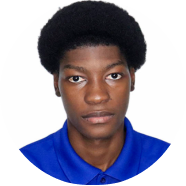
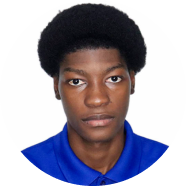
Dark/Light mode theme function

diff --git a/src/components/CustomSVG.jsx b/src/components/CustomSVG.jsx
@@ -1,0 +1,49 @@
+import React from 'react'
+
+function CustomSVG() {
+
+    return (
+        <svg width="240" height="240" viewBox="0 0 240 240" fill="none" xmlns="http://www.w3.org/2000/svg">
+            <path d="M136.091 8.52955L134.698 8.31928C134.676 7.90606 134.585 7.53221 134.425 7.19772C134.268 6.8638 134.059 6.57178 133.798 6.32168C133.541 6.0684 133.245 5.86275 132.908 5.70474C132.572 5.54673 132.213 5.4389 131.831 5.38124C131.134 5.27611 130.477 5.35691 129.858 5.62365C129.243 5.89096 128.717 6.34219 128.281 6.97734C127.848 7.61306 127.557 8.42909 127.407 9.42544C127.257 10.4218 127.295 11.2876 127.521 12.0228C127.752 12.7585 128.121 13.3449 128.63 13.7817C129.142 14.2192 129.747 14.4905 130.444 14.5956C130.826 14.6533 131.201 14.6562 131.569 14.6045C131.936 14.5527 132.28 14.4456 132.599 14.2831C132.923 14.1174 133.209 13.8982 133.457 13.6253C133.709 13.3492 133.906 13.0189 134.049 12.6343L135.442 12.8446C135.248 13.4168 134.978 13.9143 134.631 14.3369C134.284 14.7595 133.88 15.1027 133.419 15.3664C132.958 15.6263 132.459 15.8019 131.92 15.893C131.386 15.9847 130.828 15.9867 130.247 15.8991C129.266 15.751 128.43 15.3796 127.738 14.7848C127.046 14.1901 126.547 13.4176 126.242 12.4675C125.937 11.5174 125.876 10.4356 126.058 9.22196C126.241 8.00836 126.618 6.99264 127.189 6.17479C127.761 5.35694 128.464 4.76595 129.301 4.40181C130.137 4.03768 131.046 3.92966 132.027 4.07775C132.608 4.16536 133.14 4.33188 133.624 4.57731C134.112 4.8233 134.537 5.14033 134.9 5.52838C135.263 5.91268 135.549 6.35798 135.756 6.86427C135.964 7.36682 136.076 7.92191 136.091 8.52955Z" fill="black"/>
+            <path d="M152.296 14.3953C151.934 15.5682 151.41 16.5164 150.724 17.24C150.037 17.9635 149.253 18.4429 148.372 18.6783C147.491 18.9136 146.576 18.8848 145.628 18.592C144.68 18.2991 143.908 17.807 143.313 17.1156C142.717 16.4242 142.339 15.586 142.179 14.6009C142.019 13.6158 142.119 12.5368 142.48 11.364C142.842 10.1911 143.366 9.24287 144.052 8.51934C144.739 7.7958 145.523 7.31636 146.404 7.08103C147.285 6.84569 148.2 6.87445 149.148 7.16731C150.096 7.46016 150.868 7.95228 151.464 8.64367C152.059 9.33505 152.437 10.1733 152.597 11.1584C152.758 12.1435 152.657 13.2225 152.296 14.3953ZM150.993 13.9929C151.289 13.03 151.379 12.1676 151.261 11.4057C151.146 10.6448 150.868 10.0099 150.427 9.50084C149.989 8.99289 149.433 8.63497 148.76 8.42706C148.087 8.21916 147.424 8.20096 146.773 8.37245C146.125 8.54506 145.538 8.91286 145.012 9.47584C144.49 10.0399 144.08 10.8034 143.783 11.7664C143.487 12.7293 143.396 13.5911 143.51 14.352C143.628 15.1139 143.906 15.7488 144.344 16.2568C144.786 16.7658 145.343 17.1243 146.016 17.3322C146.69 17.5401 147.35 17.5578 147.998 17.3852C148.649 17.2137 149.236 16.8459 149.759 16.2818C150.285 15.7188 150.696 14.9559 150.993 13.9929Z" fill="black"/>
+            <path d="M161.331 10.8873L162.846 11.6178L162.222 22.0399L162.344 22.0991L170.093 15.1121L171.608 15.8425L166.564 26.329L165.377 25.7565L169.209 17.7892L169.107 17.7399L161.999 24.1278L160.853 23.575L161.409 14.0284L161.307 13.979L157.475 21.9463L156.288 21.3738L161.331 10.8873Z" fill="black"/>
+            <path d="M170.562 27.8922L177.111 18.274L180.359 20.4907C181.113 21.0054 181.636 21.5623 181.929 22.1615C182.228 22.7596 182.336 23.3678 182.254 23.9861C182.172 24.6044 181.938 25.1969 181.553 25.7636C181.167 26.3303 180.7 26.7663 180.153 27.0716C179.609 27.3791 179.004 27.5072 178.338 27.456C177.674 27.4017 176.968 27.1193 176.22 26.6089L173.893 25.02L174.596 23.9868L176.886 25.55C177.402 25.9024 177.878 26.0961 178.312 26.1312C178.746 26.1663 179.137 26.0801 179.485 25.8725C179.838 25.6639 180.145 25.367 180.408 24.9819C180.67 24.5968 180.832 24.2033 180.895 23.8014C180.961 23.4016 180.895 23.0077 180.696 22.6198C180.5 22.2288 180.14 21.855 179.618 21.4983L177.572 20.1016L171.726 28.6866L170.562 27.8922Z" fill="black"/>
+            <path d="M197.21 33.1307L198.242 34.0897L193.006 39.7408C192.465 40.3243 191.845 40.7176 191.145 40.9208C190.451 41.1238 189.733 41.1265 188.992 40.9289C188.253 40.7286 187.549 40.3178 186.88 39.6965C186.212 39.0751 185.75 38.4031 185.495 37.6805C185.243 36.9551 185.191 36.2369 185.338 35.526C185.491 34.815 185.838 34.1677 186.379 33.5842L191.615 27.9332L192.648 28.8922L187.488 34.46C187.102 34.8767 186.85 35.3327 186.732 35.8279C186.616 36.3204 186.641 36.8169 186.808 37.3176C186.979 37.8181 187.302 38.2887 187.776 38.7296C188.251 39.1705 188.744 39.4578 189.255 39.5915C189.769 39.7225 190.265 39.7106 190.745 39.5559C191.229 39.401 191.664 39.1152 192.05 38.6984L197.21 33.1307Z" fill="black"/>
+            <path d="M203.146 39.9309L204.123 39.151L209.56 45.9775L208.584 46.7575L206.304 43.8953L198.188 50.376L197.31 49.2738L205.426 42.7931L203.146 39.9309Z" fill="black"/>
+            <path d="M205.462 58.9825L215.536 53.1588L219.044 59.2426L217.962 59.8682L215.158 55.0051L211.754 56.9729L214.376 61.5209L213.294 62.1465L210.671 57.5984L207.248 59.5776L210.097 64.5194L209.015 65.145L205.462 58.9825Z" fill="black"/>
+            <path d="M213.588 72.4179L224.418 68.1621L225.853 71.8227C226.185 72.6691 226.313 73.4207 226.236 74.0774C226.164 74.7327 225.928 75.2892 225.53 75.7469C225.132 76.2046 224.613 76.5588 223.975 76.8095C223.337 77.0603 222.72 77.1522 222.124 77.0851C221.528 77.0181 220.984 76.7702 220.49 76.3415C220 75.9114 219.591 75.2766 219.262 74.4373L218.1 71.4749L219.285 71.0094L220.43 73.9295C220.656 74.5079 220.923 74.9401 221.231 75.2263C221.54 75.516 221.88 75.6792 222.253 75.716C222.63 75.7549 223.036 75.6892 223.469 75.5188C223.903 75.3484 224.25 75.1184 224.511 74.8287C224.772 74.539 224.92 74.1814 224.957 73.756C224.997 73.3291 224.903 72.823 224.673 72.2376L223.769 69.9312L214.102 73.7298L213.588 72.4179ZM220.452 75.6056L216.632 80.1835L216.035 78.66L219.871 74.1244L220.452 75.6056Z" fill="black"/>
+            <path d="M232.613 107.845C233.182 107.733 233.607 107.424 233.888 106.917C234.169 106.41 234.284 105.805 234.231 105.102C234.193 104.588 234.076 104.145 233.881 103.772C233.686 103.403 233.435 103.122 233.128 102.929C232.822 102.739 232.483 102.658 232.113 102.686C231.803 102.709 231.543 102.803 231.331 102.967C231.123 103.134 230.954 103.341 230.824 103.586C230.698 103.831 230.598 104.085 230.523 104.349C230.451 104.613 230.395 104.854 230.355 105.074L230.126 106.276C230.069 106.584 229.984 106.929 229.872 107.309C229.761 107.694 229.597 108.065 229.38 108.423C229.168 108.785 228.883 109.091 228.526 109.342C228.169 109.593 227.718 109.739 227.174 109.78C226.547 109.827 225.968 109.705 225.438 109.414C224.907 109.127 224.469 108.682 224.124 108.077C223.779 107.476 223.573 106.73 223.506 105.838C223.444 105.007 223.524 104.278 223.747 103.65C223.97 103.025 224.308 102.521 224.762 102.138C225.216 101.758 225.758 101.522 226.39 101.429L226.498 102.879C226.063 102.95 225.711 103.124 225.443 103.403C225.18 103.685 224.993 104.029 224.883 104.436C224.777 104.847 224.741 105.282 224.775 105.743C224.816 106.28 224.938 106.755 225.144 107.169C225.354 107.582 225.624 107.902 225.957 108.127C226.293 108.353 226.672 108.45 227.095 108.418C227.48 108.389 227.786 108.258 228.011 108.025C228.237 107.791 228.412 107.493 228.537 107.13C228.662 106.768 228.766 106.378 228.848 105.962L229.15 104.503C229.342 103.577 229.661 102.832 230.105 102.267C230.549 101.701 231.161 101.39 231.943 101.331C232.593 101.282 233.173 101.415 233.683 101.73C234.196 102.049 234.61 102.496 234.923 103.073C235.239 103.653 235.426 104.314 235.481 105.054C235.537 105.802 235.453 106.477 235.228 107.079C235.007 107.68 234.679 108.168 234.244 108.543C233.809 108.921 233.299 109.142 232.715 109.204L232.613 107.845Z" fill="black"/>
+            <path d="M232.216 127.722L232.321 126.317C232.731 126.265 233.097 126.146 233.419 125.961C233.74 125.78 234.015 125.55 234.245 125.271C234.478 124.996 234.661 124.685 234.794 124.338C234.926 123.991 235.007 123.624 235.035 123.239C235.088 122.536 234.958 121.887 234.646 121.29C234.333 120.696 233.844 120.206 233.178 119.818C232.511 119.433 231.676 119.204 230.671 119.128C229.666 119.053 228.806 119.155 228.09 119.436C227.373 119.72 226.816 120.132 226.419 120.672C226.021 121.216 225.796 121.839 225.743 122.542C225.714 122.927 225.74 123.301 225.819 123.664C225.898 124.027 226.031 124.362 226.217 124.668C226.406 124.979 226.646 125.248 226.937 125.475C227.231 125.706 227.575 125.878 227.969 125.991L227.864 127.396C227.279 127.246 226.763 127.013 226.315 126.699C225.868 126.384 225.495 126.006 225.198 125.566C224.904 125.126 224.692 124.641 224.56 124.111C224.429 123.585 224.385 123.029 224.429 122.443C224.503 121.454 224.81 120.592 225.352 119.857C225.893 119.123 226.626 118.568 227.55 118.193C228.475 117.818 229.549 117.677 230.773 117.768C231.997 117.86 233.038 118.161 233.896 118.669C234.754 119.178 235.396 119.836 235.822 120.643C236.248 121.45 236.424 122.348 236.35 123.338C236.306 123.923 236.18 124.466 235.971 124.967C235.763 125.472 235.479 125.92 235.119 126.311C234.763 126.702 234.34 127.02 233.851 127.264C233.365 127.509 232.82 127.661 232.216 127.722Z" fill="black"/>
+            <path d="M235.126 140.437L223.782 137.845L224.095 136.471L235.439 139.063L235.126 140.437Z" fill="black"/>
+            <path d="M220.929 148.855L231.759 153.111L229.196 159.649L228.032 159.192L230.081 153.966L226.422 152.528L224.506 157.416L223.342 156.958L225.258 152.07L221.578 150.624L219.496 155.935L218.332 155.478L220.929 148.855Z" fill="black"/>
+            <path d="M220.973 177.413L210.899 171.589L211.58 170.408L222.657 169.487L222.714 169.389L214.804 164.816L215.508 163.595L225.582 169.419L224.901 170.6L213.793 171.529L213.736 171.628L221.665 176.212L220.973 177.413Z" fill="black"/>
+            <path d="M208.371 189.679L209.249 188.577C209.618 188.764 209.987 188.872 210.357 188.901C210.724 188.932 211.081 188.897 211.428 188.796C211.775 188.701 212.101 188.547 212.406 188.334C212.711 188.122 212.983 187.865 213.224 187.562C213.663 187.011 213.922 186.401 214 185.731C214.075 185.065 213.947 184.383 213.616 183.687C213.282 182.994 212.721 182.333 211.934 181.704C211.146 181.075 210.378 180.675 209.629 180.503C208.877 180.335 208.185 180.361 207.553 180.584C206.918 180.809 206.381 181.197 205.942 181.748C205.702 182.05 205.512 182.374 205.373 182.718C205.234 183.063 205.155 183.415 205.136 183.773C205.118 184.136 205.165 184.494 205.277 184.845C205.39 185.202 205.577 185.538 205.839 185.854L204.961 186.956C204.563 186.502 204.267 186.019 204.075 185.506C203.882 184.994 203.787 184.472 203.789 183.941C203.794 183.411 203.892 182.891 204.082 182.378C204.27 181.869 204.546 181.385 204.912 180.926C205.531 180.149 206.27 179.61 207.13 179.308C207.99 179.006 208.908 178.961 209.883 179.172C210.857 179.383 211.824 179.872 212.783 180.638C213.742 181.403 214.433 182.238 214.856 183.143C215.278 184.047 215.438 184.953 215.335 185.86C215.233 186.767 214.872 187.609 214.254 188.385C213.888 188.844 213.478 189.222 213.024 189.519C212.568 189.818 212.081 190.028 211.564 190.148C211.05 190.271 210.522 190.295 209.98 190.222C209.441 190.15 208.905 189.969 208.371 189.679Z" fill="black"/>
+            <path d="M198.434 189.849L206.343 198.384L201.198 203.164L200.349 202.247L204.461 198.426L201.789 195.543L197.943 199.116L197.093 198.199L200.939 194.626L198.251 191.725L194.072 195.608L193.222 194.691L198.434 189.849Z" fill="black"/>
+            <path d="M173.958 210.106L175.289 209.464L176.484 221.806L175.174 222.438L166.282 213.807L167.612 213.166L174.99 220.483L175.072 220.444L173.958 210.106ZM175.437 214.439L170.074 217.025L169.532 215.899L174.896 213.312L175.437 214.439Z" fill="black"/>
+            <path d="M155.009 230.856L151.583 219.735L152.886 219.333L161.634 226.193L161.743 226.16L159.053 217.428L160.399 217.013L163.825 228.133L162.522 228.536L153.745 221.66L153.637 221.694L156.333 230.447L155.009 230.856Z" fill="black"/>
+            <path d="M141.956 222.495L145.507 221.959L147.239 233.466L143.531 234.025C142.415 234.194 141.425 234.107 140.562 233.767C139.699 233.429 138.992 232.864 138.439 232.07C137.887 231.28 137.522 230.289 137.342 229.098C137.162 227.9 137.22 226.835 137.517 225.906C137.814 224.98 138.336 224.223 139.083 223.635C139.83 223.051 140.788 222.671 141.956 222.495ZM144.3 223.405L142.232 223.717C141.281 223.861 140.52 224.163 139.95 224.625C139.38 225.086 138.992 225.679 138.787 226.404C138.582 227.128 138.55 227.958 138.691 228.895C138.831 229.824 139.103 230.6 139.507 231.225C139.912 231.854 140.443 232.302 141.1 232.571C141.758 232.843 142.536 232.911 143.435 232.776L145.66 232.44L144.3 223.405Z" fill="black"/>
+            <path d="M106.767 232.637C106.748 233.217 106.955 233.7 107.387 234.087C107.819 234.474 108.384 234.72 109.08 234.825C109.59 234.902 110.048 234.887 110.455 234.78C110.858 234.672 111.188 234.49 111.445 234.234C111.698 233.977 111.852 233.665 111.907 233.298C111.954 232.991 111.92 232.716 111.808 232.473C111.69 232.233 111.527 232.023 111.317 231.841C111.106 231.664 110.88 231.509 110.64 231.377C110.398 231.249 110.175 231.141 109.97 231.052L108.849 230.561C108.561 230.437 108.244 230.278 107.898 230.084C107.548 229.89 107.223 229.647 106.922 229.357C106.616 229.069 106.381 228.723 106.216 228.319C106.051 227.915 106.009 227.443 106.09 226.904C106.184 226.282 106.431 225.745 106.832 225.292C107.23 224.839 107.762 224.511 108.428 224.309C109.091 224.106 109.864 224.072 110.748 224.205C111.572 224.33 112.266 224.57 112.829 224.927C113.388 225.284 113.804 225.726 114.077 226.253C114.346 226.78 114.456 227.362 114.406 227.998L112.968 227.781C112.996 227.341 112.904 226.959 112.692 226.636C112.476 226.316 112.182 226.057 111.809 225.859C111.432 225.665 111.016 225.533 110.559 225.464C110.027 225.383 109.536 225.398 109.087 225.506C108.637 225.618 108.266 225.811 107.972 226.085C107.677 226.362 107.498 226.71 107.435 227.13C107.377 227.512 107.437 227.839 107.615 228.111C107.792 228.383 108.044 228.62 108.37 228.822C108.695 229.025 109.052 229.213 109.44 229.386L110.794 230.004C111.654 230.398 112.311 230.875 112.763 231.433C113.215 231.992 113.383 232.659 113.266 233.434C113.169 234.078 112.91 234.614 112.49 235.041C112.065 235.471 111.537 235.774 110.905 235.951C110.269 236.131 109.584 236.165 108.849 236.055C108.108 235.943 107.469 235.71 106.932 235.357C106.395 235.008 105.992 234.579 105.723 234.072C105.451 233.563 105.35 233.017 105.418 232.434L106.767 232.637Z" fill="black"/>
+            <path d="M87.7043 225.605C88.0656 224.432 88.5896 223.484 89.2762 222.76C89.9629 222.036 90.7467 221.557 91.6278 221.322C92.5089 221.086 93.4235 221.115 94.3717 221.408C95.32 221.701 96.0919 222.193 96.6874 222.884C97.283 223.576 97.6609 224.414 97.8212 225.399C97.9814 226.384 97.8809 227.463 97.5195 228.636C97.1582 229.809 96.6342 230.757 95.9476 231.481C95.2609 232.204 94.4771 232.684 93.596 232.919C92.715 233.154 91.8003 233.125 90.8521 232.833C89.9038 232.54 89.1319 232.048 88.5364 231.356C87.9408 230.665 87.5629 229.827 87.4026 228.842C87.2424 227.856 87.3429 226.777 87.7043 225.605ZM89.0072 226.007C88.7105 226.97 88.6212 227.832 88.7392 228.594C88.8536 229.355 89.1317 229.99 89.5733 230.499C90.0114 231.007 90.567 231.365 91.2402 231.573C91.9133 231.781 92.5756 231.799 93.2269 231.627C93.8746 231.455 94.4616 231.087 94.9878 230.524C95.5104 229.96 95.92 229.197 96.2166 228.234C96.5133 227.271 96.6044 226.409 96.49 225.648C96.372 224.886 96.0939 224.251 95.6559 223.743C95.2142 223.234 94.6568 222.876 93.9836 222.668C93.3105 222.46 92.65 222.442 92.0023 222.615C91.351 222.786 90.764 223.154 90.2415 223.718C89.7153 224.281 89.3038 225.044 89.0072 226.007Z" fill="black"/>
+            <path d="M83.7124 218.626L78.6687 229.112L72.3839 226.082L72.9257 224.956L77.9412 227.374L79.6455 223.831L75.1007 221.639L75.6425 220.513L80.1873 222.704L82.4432 218.014L83.7124 218.626Z" fill="black"/>
+            <path d="M64.1178 221.052L63.4143 222.085L56.2063 217.165L56.9099 216.131L59.932 218.194L65.7778 209.609L66.9416 210.404L61.0958 218.989L64.1178 221.052Z" fill="black"/>
+            <path d="M54.7455 202.093L49.1671 212.794L48.1181 211.819L52.7784 203.213L52.6951 203.135L44.4383 208.401L43.2728 207.318L47.8997 198.68L47.8165 198.603L39.593 203.899L38.544 202.925L48.7845 196.555L49.8502 197.545L45.4289 206.095L45.4955 206.157L53.6798 201.103L54.7455 202.093Z" fill="black"/>
+            <path d="M44.2762 192.717L45.1965 193.873L33.4413 197.791L32.5351 196.654L38.9664 186.051L39.8868 187.206L34.3985 196.038L34.4551 196.109L44.2762 192.717ZM40.3843 195.127L36.6745 190.469L37.6513 189.689L41.3611 194.347L40.3843 195.127Z" fill="black"/>
+            <path d="M34.5382 181.018L24.464 186.841L22.4999 183.435C22.0458 182.648 21.8075 181.923 21.785 181.263C21.7592 180.604 21.9092 180.018 22.2348 179.506C22.5605 178.994 23.0201 178.567 23.6137 178.223C24.2072 177.88 24.8036 177.698 25.4027 177.675C26.0019 177.652 26.5773 177.816 27.1292 178.167C27.6778 178.519 28.1772 179.086 28.6276 179.867L30.217 182.623L29.1151 183.26L27.5484 180.543C27.2381 180.005 26.9096 179.617 26.563 179.38C26.2145 179.14 25.8533 179.029 25.4796 179.048C25.1007 179.066 24.7096 179.191 24.3062 179.424C23.9028 179.658 23.5938 179.937 23.3792 180.262C23.1645 180.588 23.0707 180.963 23.0979 181.39C23.1217 181.818 23.2907 182.304 23.6048 182.849L24.8423 184.995L33.8344 179.797L34.5382 181.018ZM27.2766 178.889L30.3717 173.792L31.1891 175.209L28.0713 180.267L27.2766 178.889Z" fill="black"/>
+            <path d="M26.4121 167.582L15.5819 171.838L13.019 165.3L14.1824 164.842L16.2311 170.069L19.8905 168.631L17.9745 163.743L19.1379 163.286L21.0539 168.174L24.7345 166.727L22.6526 161.416L23.816 160.959L26.4121 167.582Z" fill="black"/>
+            <path d="M16.2967 134.267L16.5647 137.848L4.96095 138.719L4.68106 134.979C4.59681 133.854 4.75702 132.873 5.16168 132.038C5.56257 131.202 6.17954 130.539 7.01259 130.047C7.84185 129.555 8.85707 129.265 10.0582 129.175C11.267 129.084 12.3237 129.221 13.2285 129.586C14.1295 129.952 14.845 130.528 15.375 131.317C15.9012 132.105 16.2085 133.089 16.2967 134.267ZM15.213 136.537L15.057 134.452C14.9852 133.492 14.7406 132.711 14.3232 132.108C13.9058 131.505 13.3437 131.074 12.6368 130.816C11.9299 130.557 11.1043 130.463 10.16 130.534C9.22326 130.605 8.42827 130.818 7.77504 131.175C7.11803 131.532 6.63098 132.028 6.31388 132.663C5.993 133.299 5.86649 134.07 5.93434 134.977L6.10227 137.22L15.213 136.537Z" fill="black"/>
+            <path d="M15.0631 122.214L3.45938 121.343L3.98354 114.34L5.23003 114.433L4.81105 120.031L8.73184 120.326L9.12369 115.09L10.3702 115.184L9.97834 120.419L13.9218 120.715L14.3476 115.026L15.5941 115.12L15.0631 122.214Z" fill="black"/>
+            <path d="M4.66711 103.471L14.9842 102.285L15.0145 102.152L6.23302 96.602L6.56135 95.1617L16.9556 101.92L16.6323 103.338L4.33877 104.912L4.66711 103.471Z" fill="black"/>
+            <path d="M19.0714 91.1449L8.24122 86.8891L10.8041 80.3508L11.9675 80.8079L9.91886 86.0344L13.5783 87.4724L15.4943 82.5845L16.6577 83.0417L14.7417 87.9296L18.4222 89.3759L20.5041 84.0648L21.6675 84.522L19.0714 91.1449Z" fill="black"/>
+            <path d="M24.4922 76.4046L14.4179 70.581L15.1218 69.3603L24.1139 74.5583L26.8159 69.8725L27.8981 70.498L24.4922 76.4046Z" fill="black"/>
+            <path d="M33.6168 51.327C34.5758 52.0928 35.2666 52.9279 35.689 53.8324C36.1115 54.7368 36.2715 55.6425 36.1689 56.5495C36.0664 57.4565 35.706 58.2981 35.0877 59.0744C34.4694 59.8506 33.7301 60.3897 32.8698 60.6917C32.0095 60.9936 31.092 61.0389 30.1173 60.8278C29.1426 60.6167 28.1758 60.1282 27.2167 59.3625C26.2576 58.5967 25.5669 57.7616 25.1444 56.8571C24.722 55.9527 24.562 55.047 24.6645 54.14C24.7671 53.2331 25.1275 52.3914 25.7458 51.6152C26.3641 50.8389 27.1034 50.2998 27.9637 49.9979C28.824 49.696 29.7415 49.6506 30.7162 49.8617C31.6908 50.0728 32.6577 50.5613 33.6168 51.327ZM32.7672 52.3937C31.9798 51.765 31.2103 51.3663 30.4586 51.1974C29.7092 51.0256 29.0172 51.0524 28.3826 51.2776C27.7504 51.4999 27.2148 51.8866 26.7759 52.4377C26.3369 52.9888 26.0784 53.5991 26.0003 54.2687C25.9246 54.9353 26.0525 55.6167 26.3842 56.3129C26.7182 57.0062 27.2789 57.6671 28.0663 58.2958C28.8536 58.9245 29.622 59.3248 30.3714 59.4965C31.1231 59.6654 31.8151 59.6386 32.4473 59.4164C33.0819 59.1911 33.6186 58.803 34.0576 58.2519C34.4965 57.7008 34.7539 57.0919 34.8296 56.4253C34.9077 55.7557 34.7798 55.0743 34.4457 54.3811C34.1141 53.6848 33.5546 53.0224 32.7672 52.3937Z" fill="black"/>
+            <path d="M41.5661 50.1507L33.6566 41.6157L36.5372 38.9396C37.206 38.3183 37.8647 37.9313 38.5133 37.7785C39.1621 37.6204 39.7784 37.6502 40.3622 37.8678C40.9461 38.0855 41.471 38.4457 41.937 38.9486C42.403 39.4515 42.7239 40.0039 42.8996 40.6058C43.078 41.2052 43.0683 41.8244 42.8702 42.4634C42.6697 43.0995 42.2377 43.7257 41.5745 44.3419L39.5098 46.26L38.6601 45.3432L40.6915 43.456C41.1494 43.0306 41.4437 42.6098 41.5745 42.1936C41.7053 41.7774 41.7082 41.3766 41.5833 40.9911C41.4587 40.6002 41.238 40.2339 40.9213 39.8922C40.6046 39.5504 40.2576 39.3041 39.8802 39.1532C39.5056 38.9997 39.1073 38.9768 38.6854 39.0844C38.2609 39.1892 37.817 39.4569 37.3535 39.8874L35.5386 41.5735L42.5984 49.1916L41.5661 50.1507Z" fill="black"/>
+            <path d="M46.2889 29.6056L47.6779 28.6574L56.3806 34.4117L56.4932 34.3348L54.3228 24.1214L55.7118 23.1732L62.2613 32.7914L61.1725 33.5346L56.1965 26.227L56.1027 26.2911L58.0754 35.6488L57.0242 36.3664L49.0449 31.109L48.951 31.1731L53.927 38.4807L52.8383 39.2238L46.2889 29.6056Z" fill="black"/>
+            <path d="M65.6116 30.1014L60.5679 19.615L66.8937 16.5649L67.4355 17.6913L62.379 20.1295L64.0832 23.6727L68.8122 21.3925L69.354 22.519L64.625 24.7992L66.3391 28.363L71.4775 25.8854L72.0193 27.0118L65.6116 30.1014Z" fill="black"/>
+            <path d="M84.9912 9.14385L88.4172 20.2644L87.1142 20.6668L78.3658 13.8066L78.2572 13.8401L80.9471 22.5715L79.6008 22.9873L76.1748 11.8667L77.4777 11.4643L86.2546 18.3396L86.3632 18.3061L83.6666 9.55295L84.9912 9.14385Z" fill="black"/>
+            <path d="M92.3176 7.86538L92.1316 6.62931L100.761 5.32699L100.947 6.56306L97.3291 7.10909L98.8752 17.3797L97.4819 17.59L95.9357 7.31936L92.3176 7.86538Z" fill="black"/>
+        </svg>
+    )
+    
+}
+
+export default CustomSVG

diff --git a/src/styles/_navigation.scss b/src/styles/_navigation.scss
@@ -3,17 +3,25 @@
     justify-content: space-between;
     align-items: center;
     position: relative;
+
+    a:hover {
+        text-shadow:0 0 1px var(--foreground);
+    }
     
     &__menu--mobile {
         display: flex;
         flex-direction: column;
         position: absolute;
-        background-color: $light;
+        background-color: var(--background);
         top: 100%;
         padding: 8px;
         gap: 8px;
         width: 50%;
         line-height: 24px;
+
+        @include breakpoint(medium) {
+            display: none;
+        }
 
         li {
             display: flex;
@@ -24,10 +32,6 @@
             padding: 8px 0;
             text-align: center;
             border-radius: 8px;
-          }
-
-          a:hover {
-           font-weight: bold;
           }
         }
     }
@@ -43,11 +47,11 @@
     }
 
     &__toggle {
-        background-color: white;
+        background-color: var(--background);
         svg {
             width: 40px;
             height: 40px;
-            background-color: white;
+            background-color: var(--background);
         }
         @include breakpoint(medium) {
             display: none;
@@ -61,17 +65,10 @@
         line-height: 0;
         cursor: pointer;
         box-shadow: 0px 1px 4px 0px rgba(0, 0, 0, 0.25);
+        background-color: var(--mode);
     }
 
-    &__mode--light {
-        background-color: $sun;
-    }
-
-    &__mode--dark {
-        background-color: $moon;
-
-        svg * {
-            color: $light;
-        }
+    svg * {
+        color: var(--foreground);
     }
 }

diff --git a/src/components/Contact.jsx b/src/components/Contact.jsx
@@ -8,11 +8,20 @@ function Contact() {
         <section className="contact">
           <div className="contact__heading heading">
             <h2>Contact Me</h2>
-            <p>Reach me directly at saaeengrant@saaeengrant.com or through this form</p>
+            <p>Reach me directly at official.saaeengrant@gmail.com or through this form</p>
           </div>
           <form>
-              <input type="email" name="email" id="email" placeholder="Enter Email Here" autoComplete="on" />
-              <textarea name="message" id="message"  placeholder="Enter Message Here" cols="30" rows="10"></textarea>
+
+              <div className="contact__input">
+                <label htmlFor="email">Email:</label>
+                <input type="email" name="email" id="email" autoComplete="on" />
+              </div>
+
+              <div className="contact__input">
+                <label htmlFor="email">Message:</label>
+                <textarea name="message" id="message" cols="30" rows="10"></textarea>
+              </div>
+             
               <Button icon={"plane--tilt"}>Submit</Button>
           </form>
         </section>

diff --git a/src/components/Navigation.jsx b/src/components/Navigation.jsx
@@ -1,5 +1,6 @@
 import React from 'react'
-import { useState } from "react"
+import { useContext ,useState } from "react"
+import { DarkModeContext } from '../context/DarkModeContext'
 import {List, X, Sun, Moon} from "@phosphor-icons/react"
 
 
@@ -7,10 +8,11 @@ import {List, X, Sun, Moon} from "@phosphor-icons/react"
 function Navigation() {
   
   const [isActive, setIsActive] = useState(false)
-  const [mode, setMode] = useState(false)
+  const {mode, isDarkMode} = useContext(DarkModeContext)
 
   const toggleMenu = () => setIsActive((prev) => !prev)
-
+  const toggleMode = () => isDarkMode((prev) => !prev)
+  
   return (
     <nav className="navigation">
 
@@ -25,7 +27,7 @@ function Navigation() {
         <li><a className="navigation__link" href="#">Contact</a></li>
       </ul>
 
-      <div className={`navigation__mode ${mode ? "navigation__mode--dark" : "navigation__mode--light"}`} onClick={() => setMode((prev) => !prev)}>
+      <div className="navigation__mode" onClick={toggleMode}>
         {
           mode 
           ? <Moon/>

diff --git a/src/styles/index.scss b/src/styles/index.scss
@@ -20,12 +20,12 @@ $font-family: 'Inter', sans-serif;
     padding: 0;
     font-size: inherit;
     font-weight: inherit;
-    letter-spacing: 0.76px;    
-    color: $dark;
+    letter-spacing: 0.76px;  
+    color: var(--foreground);
 }
 
-body {
-    background-color: $light;
+.app {
+    background-color: var(--background);
     text-align: center;
 
     @include breakpoint(medium) {
@@ -40,8 +40,9 @@ input, button, textarea {
 }
 
 input, textarea {
-    border: 1.24px $neutral-dark solid;
+    border: 1.24px var(--neutral) solid;
     width: 100%;
+    background-color: var(--background);
     @extend %button-cta-format;
 }
 
@@ -54,11 +55,13 @@ svg {
 }
 
 .container { 
-    margin: 24px;
+    padding: 24px;
 
     @include breakpoint(medium) {
-        margin: 24px auto;
+        margin: 0 auto;
         max-width: 696px;
+        padding: 24px 0;
+
     }
 
     > *:not(:last-child) {
@@ -114,7 +117,7 @@ h2 {
 // }
 
 %neutral-text {
-    color: $neutral-dark;
+    color: var(--neutral);
 }
 
 %button-cta-format {

diff --git a/src/App.jsx b/src/App.jsx
@@ -4,20 +4,24 @@ import Portfolio from './components/Portfolio'
 import About from './components/About'
 import Contact from './components/Contact'
 import Footer from './components/Footer'
+import { DarkModeContext } from './context/DarkModeContext'
+import { useContext } from 'react'
 
 function App() {
+  const {mode} = useContext(DarkModeContext)
+  console.log(mode)
 
   return (
-    <>
-     <div className="container">
+     <main className="app" data-theme={mode ? "dark" : "light"}>
+       <div className="container">
         <Navigation/>
-        <Intro/>
-        <Portfolio/>
-        <About/>
-        <Contact/>
-        <Footer/>
-     </div>
-    </>
+          <Intro/>
+          <Portfolio/>
+          <About/>
+          <Contact/>
+          <Footer/>
+       </div>
+     </main>
   )
 }
 

diff --git a/src/styles/_about.scss b/src/styles/_about.scss
@@ -8,21 +8,26 @@
   @include breakpoint(medium) {
     flex-direction: row;
     gap: 36px;
-
   }
 
   &__image {
     position: relative;
 
-    :first-child {
-        animation: spin 36s linear infinite;
+    svg {
+      width: 240px;
+      height: 240px;
+      animation: spin 36s linear infinite;
+       
+      path {
+          fill: var(--foreground);
+      }
     }
 
-    :last-child {
-       position: absolute;
-       top: 50%;
-       left: 50%;
-       transform: translate(-50%,-50%);
+    img {
+      position: absolute;
+      top: 50%;
+      left: 50%;
+      transform: translate(-50%,-50%);
     }
   }
 

diff --git a/src/styles/_button.scss b/src/styles/_button.scss
@@ -12,20 +12,20 @@
 }
 
 .btn--default {
-    background-color: $dark;
-    color: $light;
+    background-color: var(--foreground);
+    color: var(--background); 
 
     .btn-icon {
-        svg * {color: $light;}
+        svg * {color: var(--background);}
     }
 }
 
 .btn--outline {
-    background-color: $light;
-    border: 1.24px $dark solid;
-    color: $dark;
+    background-color: var(--background);
+    border: 1.24px var(--foreground) solid;
+    color: var(--foreground);
 
     .btn-icon {
-        svg * {color: $dark;}
+        svg * {color: var(--foreground);}
     }
 }

diff --git a/src/components/About.jsx b/src/components/About.jsx
@@ -1,6 +1,6 @@
 import React from 'react'
 import Headshot from '../assets/headshot.png'
-import Circle from '../assets/text-circle.svg'
+import CustomSVG from './CustomSVG'
 
 function About() {
 
@@ -9,7 +9,7 @@ function About() {
         <section className="about">
           <div className="about__col-1">
             <div className="about__image">
-              <img src={Circle} alt="Saaeen Grant" />
+              <CustomSVG/>
               <img src={Headshot} alt="Saaeen Grant" />
             </div>
           </div>

diff --git a/src/main.jsx b/src/main.jsx
@@ -2,10 +2,13 @@ import React from 'react'
 import ReactDOM from 'react-dom/client'
 import App from './App.jsx'
 import './styles/index.scss'
+import { DarkModeContextProvider } from './context/DarkModeContext.jsx'
 
 
 ReactDOM.createRoot(document.getElementById('root')).render(
   <React.StrictMode>
-    <App />
+    <DarkModeContextProvider>
+      <App />
+    </DarkModeContextProvider>
   </React.StrictMode>,
 )

diff --git a/src/context/DarkModeContext.jsx b/src/context/DarkModeContext.jsx
@@ -1,0 +1,14 @@
+import React, {createContext, useState} from "react";
+
+export const DarkModeContext = createContext();
+
+export const DarkModeContextProvider = ({children}) => {
+    const [mode, isDarkMode] = useState(true)
+
+    return (
+        <DarkModeContext.Provider value={{mode, isDarkMode}} >
+            {children}
+        </DarkModeContext.Provider>
+    )
+
+}

diff --git a/src/styles/_colors.scss b/src/styles/_colors.scss
@@ -4,3 +4,17 @@ $neutral-dark: #7C7C7C;
 $neutral-light: #BBBBBB;
 $sun: #FFD951;
 $moon: #A449FF;
+
+:root {
+    --background: #{$dark};
+    --foreground: #{$light};
+    --neutral: #{$neutral-light};
+    --mode: #{$moon};
+}
+
+[data-theme="light"] {
+    --background: #{$light};
+    --foreground: #{$dark};
+    --neutral: #{$neutral-dark};
+    --mode: #{$sun};
+}
